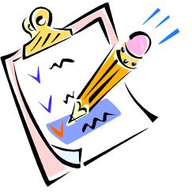
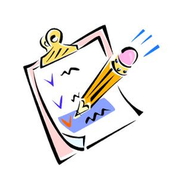
Add files via upload

diff --git a/index.html b/index.html
@@ -219,11 +219,26 @@
   #fabAddStudent{position:fixed;bottom:78px;right:16px;z-index:400;background:var(--primary);color:#fff;border:none;border-radius:999px;padding:12px 20px;display:none;align-items:center;gap:8px;cursor:pointer;box-shadow:0 4px 16px rgba(29,158,117,0.4);font-family:inherit;transition:background 0.2s,transform 0.15s;}
   #fabAddStudent:hover{background:var(--primary-dark);transform:scale(1.04);}
   /* update toast */
-  #updateToast{position:fixed;bottom:78px;left:50%;transform:translateX(-50%) translateY(20px);z-index:9000;background:#0F6E56;color:#fff;border-radius:12px;padding:12px 18px;font-size:0.88rem;font-weight:500;display:flex;align-items:center;gap:12px;box-shadow:0 6px 24px rgba(0,0,0,0.18);opacity:0;transition:opacity 0.4s ease,transform 0.4s ease;pointer-events:none;max-width:90vw;}
-  #updateToast.show{opacity:1;transform:translateX(-50%) translateY(0);pointer-events:auto;}
-  #updateToast .spinner{width:14px;height:14px;border:2px solid rgba(255,255,255,0.35);border-top-color:#fff;border-radius:50%;animation:spin 0.7s linear infinite;flex-shrink:0;}
-  #updateToast button{background:rgba(255,255,255,0.2);border:none;border-radius:6px;color:#fff;font-size:0.8rem;font-weight:600;padding:4px 10px;cursor:pointer;white-space:nowrap;}
-  #updateToast button:hover{background:rgba(255,255,255,0.35);}
+  /* update dialog */
+  #updateDialog{position:fixed;inset:0;z-index:9500;background:rgba(0,0,0,0.6);display:none;align-items:center;justify-content:center;padding:1.5rem;}
+  #updateDialog.show{display:flex;}
+  #updateDialogBox{background:#fff;border-radius:16px;width:100%;max-width:340px;overflow:hidden;box-shadow:0 20px 60px rgba(0,0,0,0.3);}
+  #updateDialogHeader{background:var(--primary-dark);padding:1.5rem;text-align:center;}
+  #updateDialogHeader .upd-icon{font-size:2.5rem;display:block;margin-bottom:0.5rem;}
+  #updateDialogHeader h3{color:#fff;margin:0;font-size:1.1rem;font-weight:700;}
+  #updateDialogHeader p{color:rgba(255,255,255,0.8);margin:0.3rem 0 0;font-size:0.82rem;}
+  #updateDialogBody{padding:1.2rem 1.5rem;}
+  #updateDialogBody p{font-size:0.88rem;color:var(--muted);line-height:1.6;margin:0 0 1rem;}
+  .upd-features{list-style:none;padding:0;margin:0 0 1.2rem;}
+  .upd-features li{font-size:0.85rem;color:var(--text);padding:5px 0;display:flex;gap:8px;align-items:flex-start;}
+  .upd-features li::before{content:'✓';color:var(--primary);font-weight:700;flex-shrink:0;}
+  #updateDialogFooter{display:flex;border-top:1px solid var(--border);}
+  .upd-btn{flex:1;padding:14px;border:none;font-size:0.9rem;font-weight:600;cursor:pointer;transition:background 0.15s;}
+  .upd-btn.later{background:#fff;color:var(--muted);}
+  .upd-btn.later:hover{background:var(--grey-100,#f5f6f8);}
+  .upd-btn.update{background:var(--primary);color:#fff;}
+  .upd-btn.update:hover{background:var(--primary-dark);}
+  .upd-btn-divider{width:1px;background:var(--border);}
   /* overflow menu */
   .menu-item{display:block;width:100%;text-align:left;padding:11px 16px;font-size:0.88rem;font-weight:500;background:none;border:none;cursor:pointer;color:var(--text);transition:background 0.15s;}
   .menu-item:hover{background:var(--grey-100,#f5f6f8);}
@@ -2199,32 +2214,44 @@ updateBadge();
 if(!localStorage.getItem("ea33_notif_dismissed")) showNotifBanner();
 if(Notification.permission === "granted") sendAnnouncementNotifications();
 
+let _pendingNewSW = null;
+
+function showUpdateDialog(){
+  document.getElementById("updateDialog").classList.add("show");
+}
+function dismissUpdate(){
+  document.getElementById("updateDialog").classList.remove("show");
+}
+function applyUpdate(){
+  document.getElementById("updateDialog").classList.remove("show");
+  if(_pendingNewSW){
+    _pendingNewSW.postMessage({type:"SKIP_WAITING"});
+  }
+}
+window.dismissUpdate = dismissUpdate;
+window.applyUpdate   = applyUpdate;
+
 if("serviceWorker" in navigator){
-  // Skip SW registration on Claude preview domain
   const isPreview = window.location.hostname.includes("claudeusercontent.com");
   if(!isPreview){
     window.addEventListener("load", async ()=>{
       try {
         const reg = await navigator.serviceWorker.register("./service-worker.js", {scope: "./"});
 
-        const showUpdateToast = ()=>{
-          const toast = document.getElementById("updateToast");
-          if(toast) toast.classList.add("show");
-          navigator.serviceWorker.addEventListener("controllerchange", ()=>{
-            const msg = toast ? toast.querySelector("span:last-of-type") : null;
-            if(msg) msg.textContent = "New features ready! Reloading...";
-            setTimeout(()=>{ window.location.reload(); }, 1500);
-          });
-        };
-
         reg.addEventListener("updatefound", ()=>{
           const newSW = reg.installing;
           newSW.addEventListener("statechange", ()=>{
             if(newSW.state === "installed" && navigator.serviceWorker.controller){
-              showUpdateToast();
-              newSW.postMessage({type:"SKIP_WAITING"});
+              // New version ready — show update dialog
+              _pendingNewSW = newSW;
+              showUpdateDialog();
             }
           });
+        });
+
+        // When SW takes control, reload to apply update
+        navigator.serviceWorker.addEventListener("controllerchange", ()=>{
+          window.location.reload();
         });
 
       } catch(e){ console.log("SW not available in this environment."); }
@@ -2242,10 +2269,28 @@ if("serviceWorker" in navigator){
   </div>
 </div>
 
-<!-- Update toast -->
-<div id="updateToast">
-  <span class="spinner"></span>
-  <span>Applying new features, please wait...</span>
+<!-- Update dialog (Al Jazeera style) -->
+<div id="updateDialog">
+  <div id="updateDialogBox">
+    <div id="updateDialogHeader">
+      <span class="upd-icon">🚀</span>
+      <h3>Update Available</h3>
+      <p>A new version of Easy Assess is ready</p>
+    </div>
+    <div id="updateDialogBody">
+      <p>New features and improvements are available. Update now to get the best experience.</p>
+      <ul class="upd-features">
+        <li>Latest assessment tools and bug fixes</li>
+        <li>Improved performance and stability</li>
+        <li>New features added by the developer</li>
+      </ul>
+    </div>
+    <div id="updateDialogFooter">
+      <button class="upd-btn later" onclick="dismissUpdate()">Later</button>
+      <div class="upd-btn-divider"></div>
+      <button class="upd-btn update" onclick="applyUpdate()">Update Now</button>
+    </div>
+  </div>
 </div>
 
 <!-- Bottom Navigation -->

diff --git a/service-worker.js b/service-worker.js
@@ -1,4 +1,4 @@
-const CACHE_NAME = "score-manager-v15";
+const CACHE_NAME = "score-manager-v16";
 
 const STATIC_ASSETS = [
   "./",
